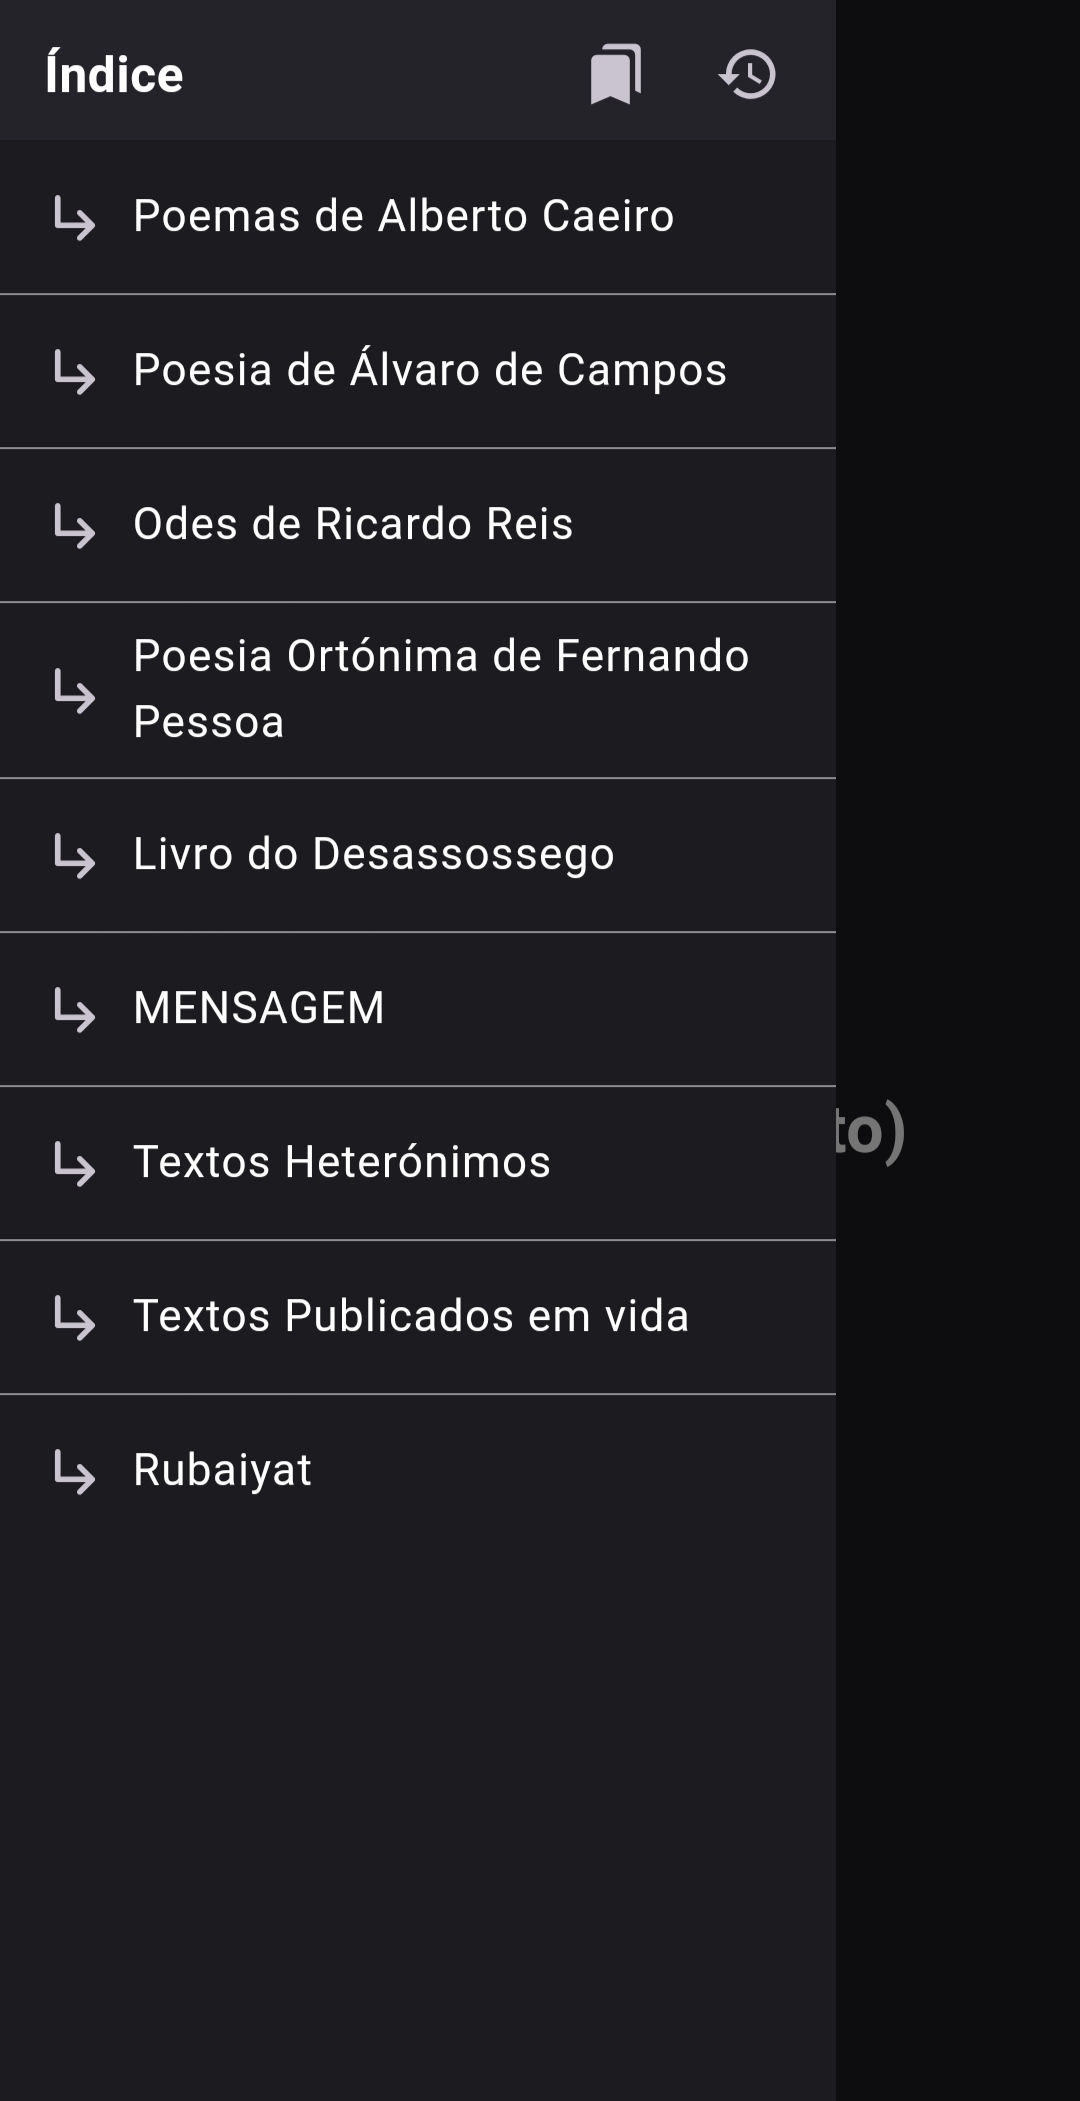
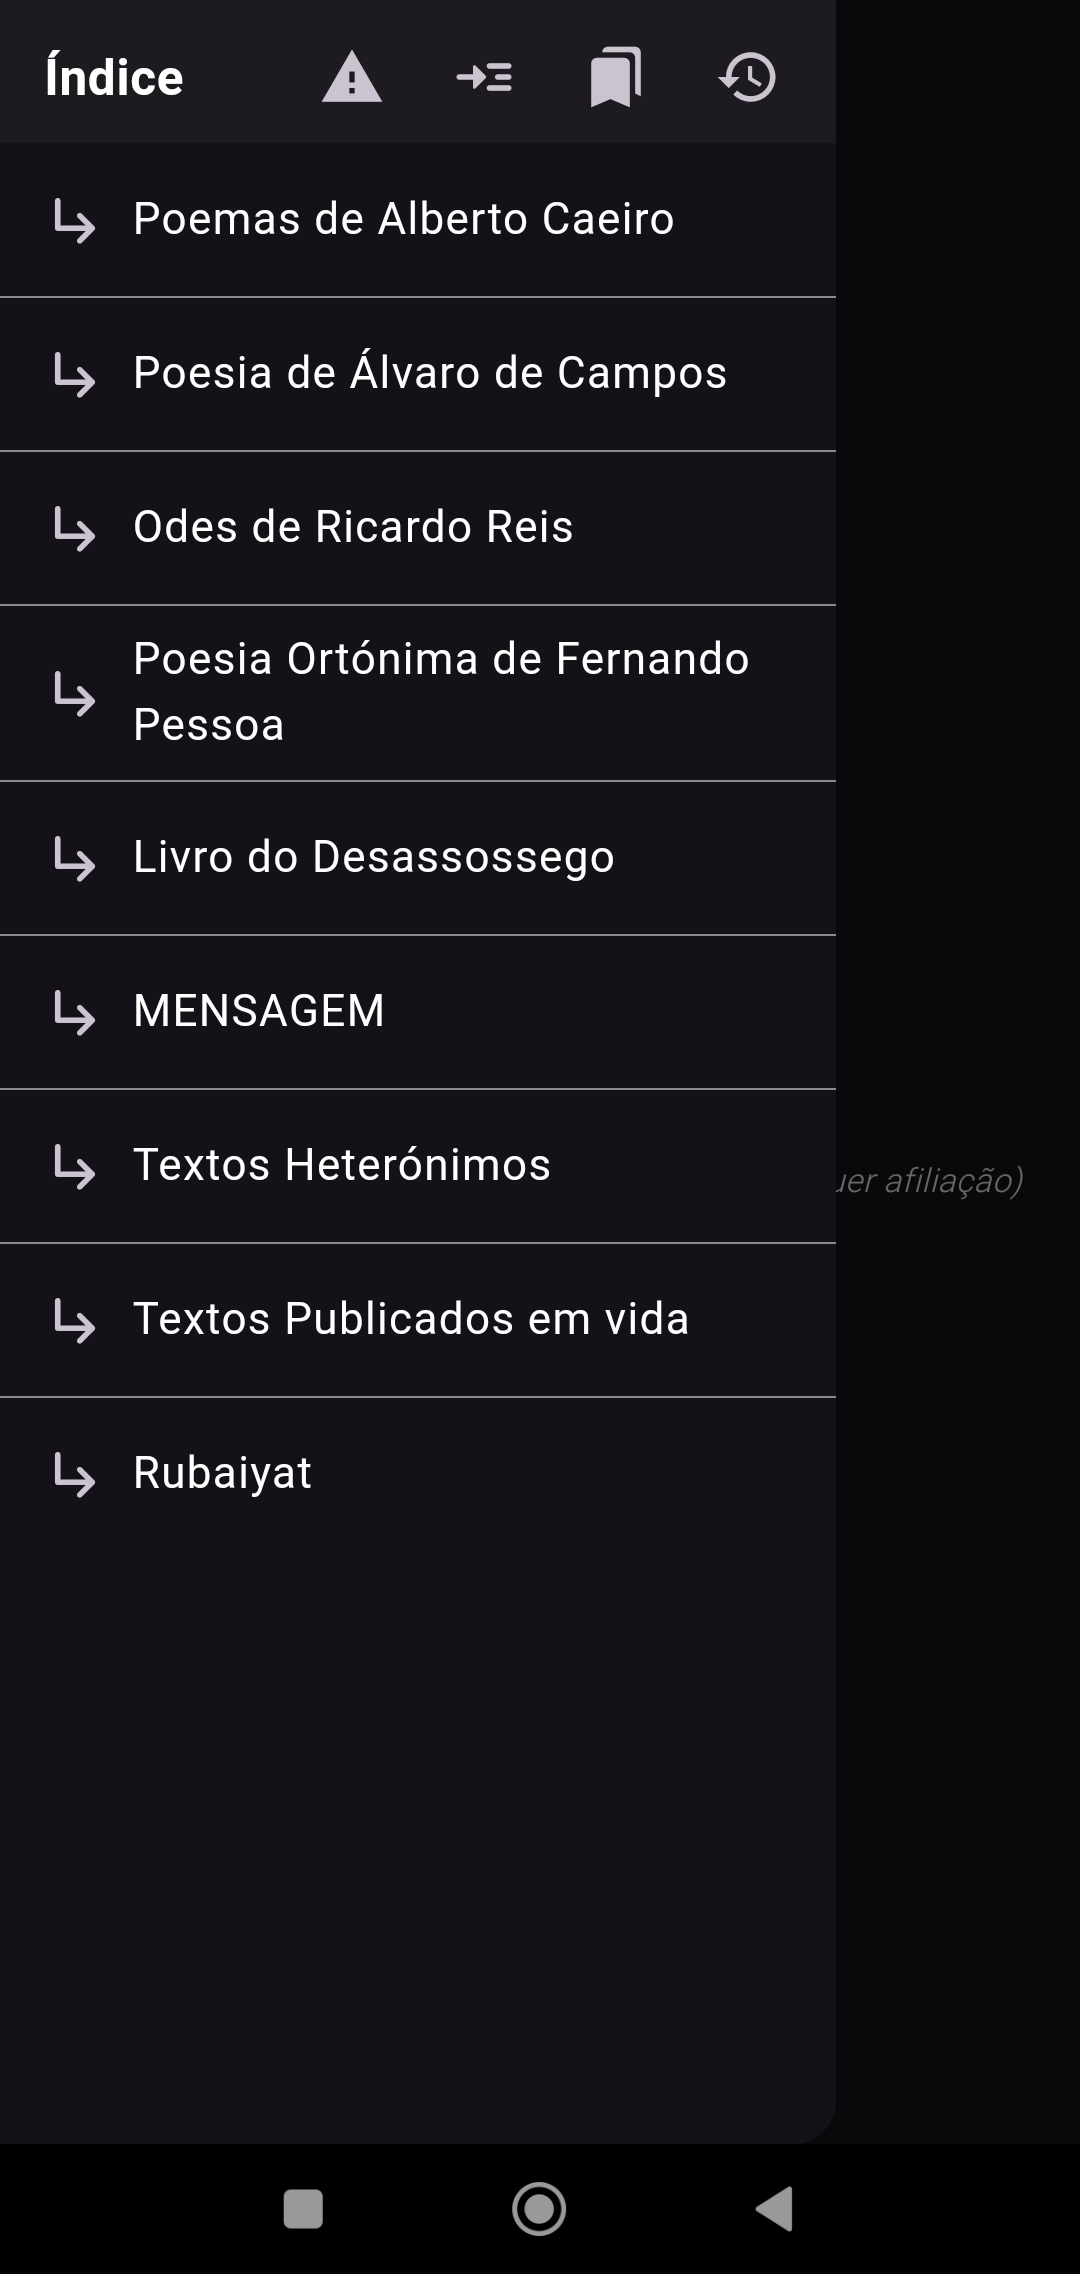
chore: update screenshots

diff --git a/lib/ui/screen/home_screen.dart b/lib/ui/screen/home_screen.dart
@@ -1,5 +1,6 @@
 import 'dart:async';
 
+import 'package:flutter/gestures.dart';
 import 'package:flutter/material.dart';
 import 'package:get/get.dart';
 import 'package:pessoa_pensadora/model/pessoa_text.dart';
@@ -38,6 +39,10 @@ class _HomeScreenState extends State<HomeScreen>
   @override
   void initState() {
     super.initState();
+
+    WidgetsBinding.instance.addPostFrameCallback((_) {
+      _scaffoldKey.currentState?.openDrawer();
+    });
   }
 
   @override
@@ -64,17 +69,20 @@ class _HomeScreenState extends State<HomeScreen>
                       )
                     ],
             ),
-            drawer: TextSelectionDrawer(
-              mainIndex: storeService.mainIndex,
-              fullIndex: storeService.fullIndex,
-              selectionSink: _streamController.sink,
-              scrollController: drawerScrollController,
-              selectedText: text,
-              scaffoldKey: _scaffoldKey,
-              isFullReading: isFullReading,
-              onFullReadingChange: (newValue) => setState(() {
-                isFullReading = newValue;
-              }),
+            drawer: AnimatedContainer(
+              duration: Durations.extralong4,
+              child: TextSelectionDrawer(
+                mainIndex: storeService.mainIndex,
+                fullIndex: storeService.fullIndex,
+                selectionSink: _streamController.sink,
+                scrollController: drawerScrollController,
+                selectedText: text,
+                scaffoldKey: _scaffoldKey,
+                isFullReading: isFullReading,
+                onFullReadingChange: (newValue) => setState(() {
+                  isFullReading = newValue;
+                }),
+              ),
             ),
             body: HomeScreenBody(
                 text: text,

diff --git a/README.md b/README.md
@@ -6,6 +6,7 @@ Criada para serem lidos numa interface mais moderna e de fácil leitura no telem
 
 > **Nota**: esta aplicação não possui qualquer afiliação ao website [Arquivo Pessoa](http://arquivopessoa.net/info/ficha), exceto a extração dos textos do mesmo.
 > 
+<img alt="Paga-me um chá" src="images/other/buy-me-a-coffee-qr.png" width="120px"/>
 
 ## Imagens
 
@@ -42,8 +43,6 @@ A aplicação é, e será **sempre**, **gratuita e de código aberto**.
 Run the code generator first: `dart run build_runner build`.
 
 Then run as normal. (via IDE or `fluter run --debug --flavor dev`)
-
-## Se me quiseres pagar um chá!
 
 <img alt="Paga-me um chá" src="images/other/buy-me-a-coffee-qr.png" width="200px"/>
 
